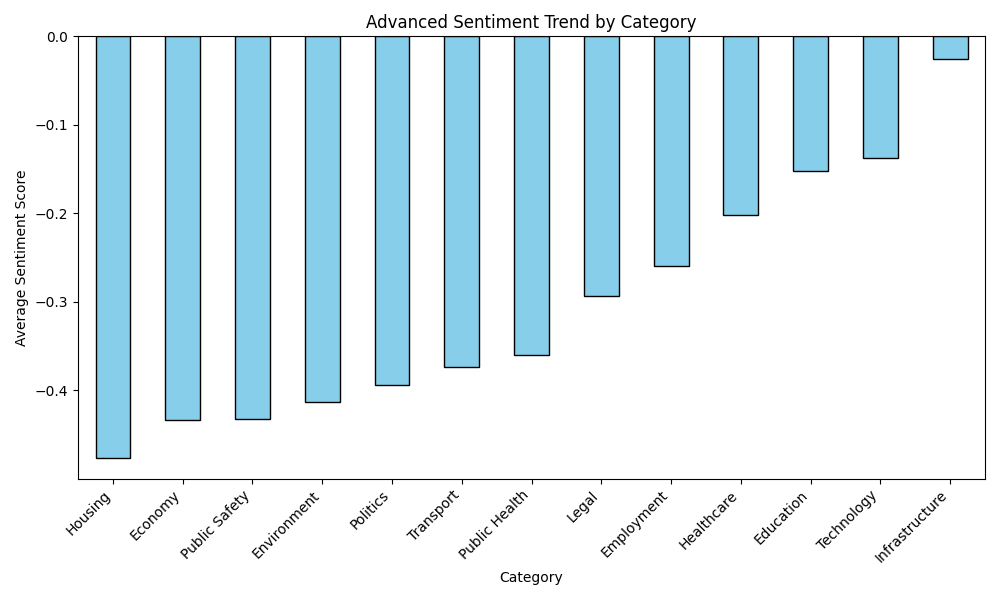
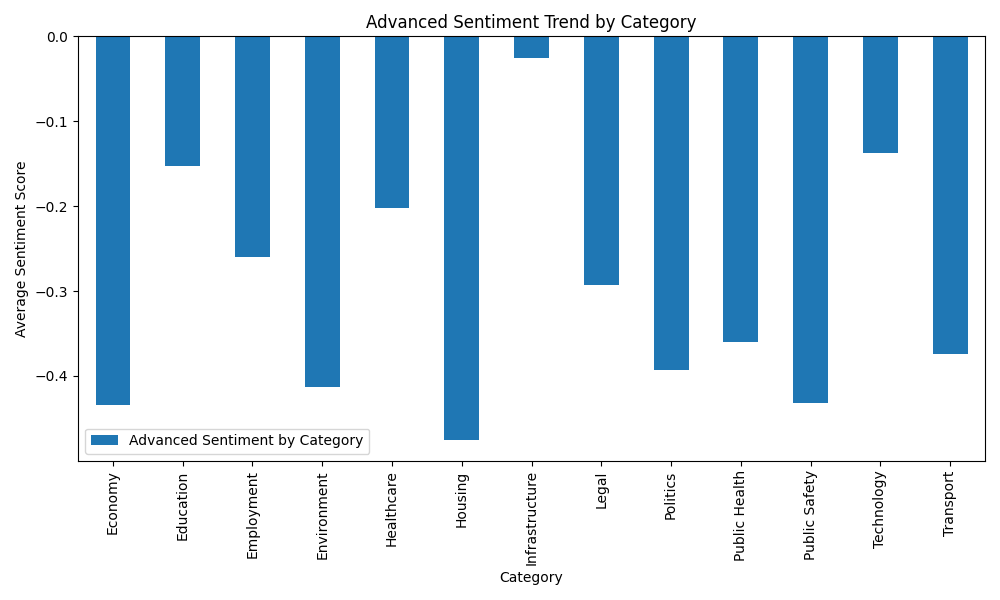
Update report visualisations for trends

diff --git a/tests/sentiment_analyser/sentiment_run_trends.py b/tests/sentiment_analyser/sentiment_run_trends.py
@@ -5,7 +5,7 @@ from common_components.data_preprocessor.concrete_general_builder import General
 from common_components.data_preprocessor.director import PreprocessingDirector
 from sentiment_analyser.context import SentimentAnalysisContext
 from sentiment_analyser.polarity.custom import CustomSentimentClassifier
-from sentiment_analyser.polarity.vader import VaderSentimentClassifier
+from sentiment_analyser.polarity.advanced import AdvancedSentimentClassifier
 
 # Load dataset
 df = pd.read_csv("tests/sentiment_analyser/data/raw_invariance_test_sentiment.csv").head(100)
@@ -25,7 +25,7 @@ df = builder.get_result()
 # List of classifiers to test
 classifiers = [
     ("Custom", CustomSentimentClassifier()),
-    ("VADER", VaderSentimentClassifier()),
+    ("Advanced", AdvancedSentimentClassifier()),
 ]
 
 # Initialize results dictionaries to store sentiment scores for plotting
@@ -60,29 +60,29 @@ for name, classifier in classifiers:
     all_results_scores[name] = sentiment_scores
 
 # --- Trend Analysis: Category-level and Time-level ---
-# Category-level Sentiment Trend
-plt.figure(figsize=(10, 6))
+# Save and show Category-level Sentiment Trend
 for name, category_trend in category_trends.items():
+    plt.figure(figsize=(10, 6))
     category_trend.plot(kind='bar', label=f"{name} Sentiment by Category")
-    
-plt.xlabel('Category')
-plt.ylabel('Average Sentiment Score')
-plt.title('Sentiment Trend by Category')
-plt.legend(loc='best')
-plt.tight_layout()
-plt.show()
+    plt.xlabel('Category')
+    plt.ylabel('Average Sentiment Score')
+    plt.title(f'{name} Sentiment Trend by Category')
+    plt.legend(loc='best')
+    plt.tight_layout()
+    plt.savefig(f"{name}_category_trend.png")  # Save the plot
+    plt.show()
 
-# Time-level Sentiment Trend (assumes 'date' exists in dataset)
-plt.figure(figsize=(10, 6))
+# Save and show Time-level Sentiment Trend (assumes 'date' exists in dataset)
 for name, time_trend in time_trends.items():
+    plt.figure(figsize=(10, 6))
     time_trend.plot(label=f"{name} Sentiment Over Time")
-    
-plt.xlabel('Date')
-plt.ylabel('Average Sentiment Score')
-plt.title('Sentiment Trend Over Time')
-plt.legend(loc='best')
-plt.tight_layout()
-plt.show()
+    plt.xlabel('Date')
+    plt.ylabel('Average Sentiment Score')
+    plt.title(f'{name} Sentiment Trend Over Time')
+    plt.legend(loc='best')
+    plt.tight_layout()
+    plt.savefig(f"{name}_time_trend.png")  # Save the plot
+    plt.show()
 
 # --- Generate Text Report ---
 report = []
